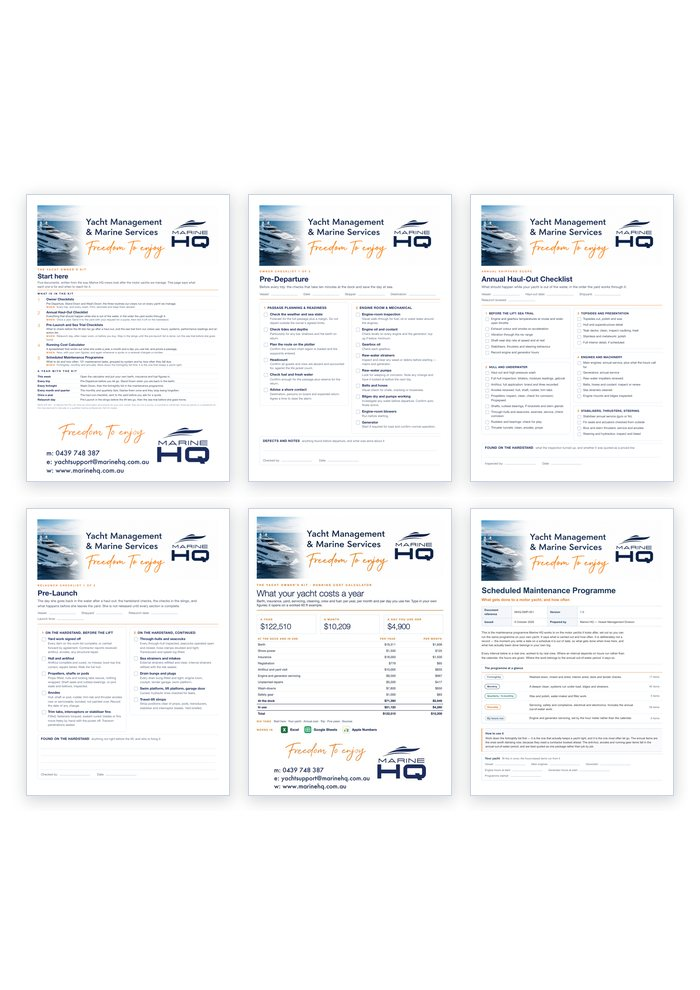
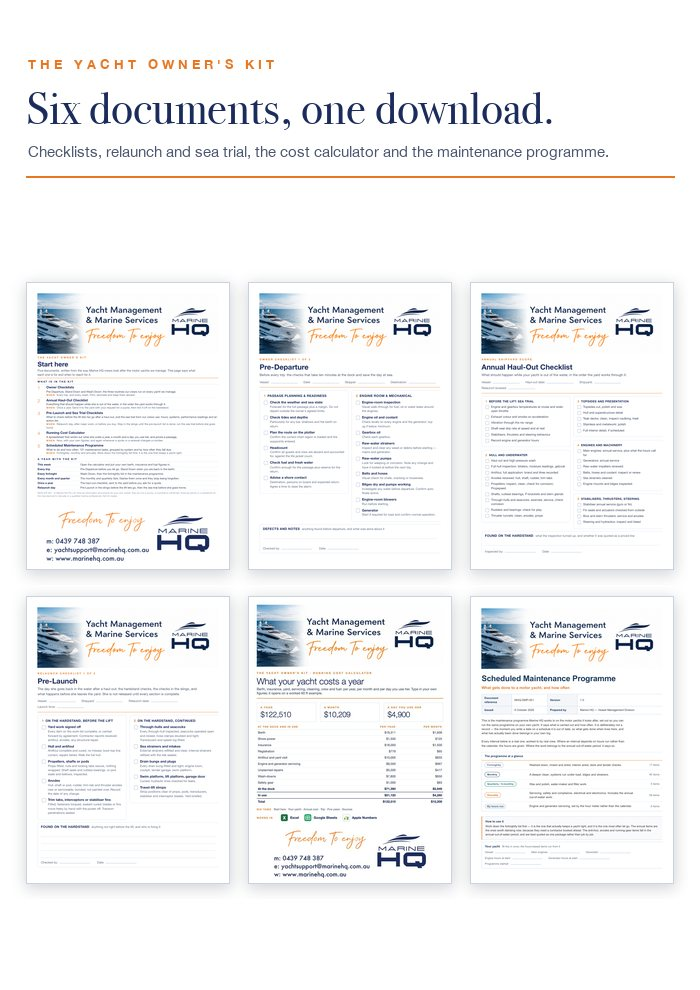
Kit image: title block; calculator listing: badges replace the 'works in' bullet

diff --git a/owners-kit/index.html b/owners-kit/index.html
@@ -26,7 +26,7 @@
   </div>
 </header>
 <nav class="sub" aria-label="Guide sections"><div class="wrap sub-bar"><a class="sub-home" href="/">All guides</a><a href="/costs/">Costs</a><a href="/maintenance/">Maintenance</a><a href="/marinas/">Marinas</a><a href="/buying/">Buying & selling</a><a href="/cruising/">Cruising & passages</a><a href="/ownership/">Ownership</a><a class="sub-kit" href="/owners-kit/">Owner&rsquo;s Kit</a></div></nav>
-<section class="hero small"><div class="wrap"><div class="crumbs"><a href="/">Guides</a> <span>&rsaquo;</span> Owner&rsquo;s Kit</div><h1>The Yacht Owner&#x27;s Kit</h1><p class="stand">The checklists and schedules our crews work to, written for owners who run their own yacht. Download, print, keep aboard.</p></div></section><main class="wrap shop"><p class="shop-note">Pay by card and your files download straight away, with a copy of the links emailed to you. Prices in Australian dollars, GST included. Questions: <a href="tel:+61439748387">0439 748 387</a>.</p><p class="launch-note">Launch prices until 31 December 2026</p><article class="shopcard" id="checklists"><div class="shop-img"><img src="/assets/products/checklists.jpg" alt="Owner Checklists: Pre-Departure, Stand Down, Wash-Down, first page" loading="lazy"></div><div class="shop-txt"><h2>Owner Checklists: Pre-Departure, Stand Down, Wash-Down </h2><p class="blurb">The three routines our crews run on every yacht we manage, written for an owner to use.</p><ul><li>Pre-Departure: 43 checks in six groups, from passage planning to letting go</li><li>Stand Down: 30 checks to leave her secure and ready</li><li>Wash-Down: the 12-step professional wash routine</li><li>How to use them: print, laminate, keep aboard</li></ul><p class="fmt">PDF, 5 pages, A4, print-ready</p><div class="prod-act"><span class="price"><s>$9</s> $7</span><a class="btn" href="https://yachtsupport.systeme.io/owner-checklists">Get yours now &middot; $7</a></div></div></article><article class="shopcard" id="haul-out"><div class="shop-img"><img src="/assets/products/haul-out.jpg" alt="Annual Haul-Out Checklist, first page" loading="lazy"></div><div class="shop-txt"><h2>Annual Haul-Out Checklist </h2><p class="blurb">Everything that should happen while she is out of the water, in the order the yard works through it.</p><ul><li>Pre-lift sea trial: what to measure before she comes out</li><li>Hull, running gear, engines, stabilisers, safety, electrical, systems, tender</li><li>Ten sections, 55 checks</li><li>What to get in writing before you sign the yard quote</li></ul><p class="fmt">PDF, 2 pages, A4, print-ready</p><div class="prod-act"><span class="price"><s>$15</s> $12</span><a class="btn" href="https://yachtsupport.systeme.io/annual-haul-out">Get the checklist &middot; $12</a></div></div></article><article class="shopcard" id="launch-sea-trial"><div class="shop-img"><img src="/assets/products/launch-sea-trial.jpg" alt="Pre-Launch and Sea Trial Checklists, first page" loading="lazy"></div><div class="shop-txt"><h2>Pre-Launch and Sea Trial Checklists </h2><p class="blurb">The two lists that follow a haul-out: what to check before the lift lets her go, and the sea trial that proves she is right.</p><ul><li>Pre-Launch: the three-stage relaunch procedure our crews follow, on the hardstand, in the slings and after release</li><li>Sea Trial: the form our crews use, written for an owner</li><li>Machinery hours and fuel, 14 pre-departure and 7 start-up checks, 25 systems</li><li>Performance table: speed, fuel burn, load, RPM and temperature at nine targets</li><li>The run procedure, what the numbers mean, and an outcome and action list</li></ul><p class="fmt">PDF, 5 pages, A4, print-ready</p><div class="prod-act"><span class="price"><s>$15</s> $12</span><a class="btn" href="https://yachtsupport.systeme.io/pre-launch-sea-trial">Get the checklists &middot; $12</a></div></div></article><article class="shopcard" id="calculator"><div class="shop-img"><img src="/assets/products/calculator.jpg" alt="Running Cost Calculator, first page" loading="lazy"></div><div class="shop-txt"><h2>Running Cost Calculator </h2><p class="blurb">A spreadsheet that works out what your yacht costs a year, a month and a day you use her, and prices a passage before you go.</p><ul><li>Type in her length, insured value, berth rate and hours</li><li>At the dock, in use, per month, per day of use and as a share of her value</li><li>Trip tab: fuel, berths, crew and provisions for a passage</li><li>Five-year outlook, with a major engine service in the year it lands</li><li>Opens on a worked 60 ft example, every starting figure sourced and dated</li><li>Works in Excel, Apple Numbers and Google Sheets</li></ul><p class="fmt">Spreadsheet (.xlsx), 6 tabs</p><p class="works"><span class="eyebrow">Works in</span><span><svg viewBox="0 0 22 22" aria-hidden="true"><rect x="1" y="1" width="20" height="20" rx="4" fill="#1D6F42"/><text x="11" y="16" text-anchor="middle" font-family="Arial" font-weight="800" font-size="13" fill="#fff">X</text></svg>Excel</span><span><svg viewBox="0 0 22 22" aria-hidden="true"><rect x="1" y="1" width="20" height="20" rx="4" fill="#21A464"/><rect x="5" y="6" width="12" height="10" rx="1" fill="none" stroke="#fff" stroke-width="1.4"/><line x1="5" y1="11" x2="17" y2="11" stroke="#fff" stroke-width="1.4"/><line x1="11" y1="6" x2="11" y2="16" stroke="#fff" stroke-width="1.4"/></svg>Google Sheets</span><span><svg viewBox="0 0 22 22" aria-hidden="true"><rect x="1" y="1" width="20" height="20" rx="4" fill="#fff" stroke="#CBD3E0"/><rect x="5" y="11" width="3" height="6" fill="#34C759"/><rect x="9.5" y="6" width="3" height="11" fill="#FFCC00"/><rect x="14" y="8.5" width="3" height="8.5" fill="#007AFF"/></svg>Apple Numbers</span></p><div class="prod-act"><span class="price"><s>$22</s> $17</span><a class="btn" href="https://yachtsupport.systeme.io/running-cost-calculator">Get the calculator &middot; $17</a></div></div></article><article class="shopcard" id="programme"><div class="shop-img"><img src="/assets/products/programme.jpg" alt="Scheduled Maintenance Programme, first page" loading="lazy"></div><div class="shop-txt"><h2>Scheduled Maintenance Programme </h2><p class="blurb">What to do and how often: 121 maintenance tasks for a motor yacht, grouped by system and by how often they fall due.</p><ul><li>121 tasks: fortnightly, monthly, quarterly, annual and by engine hours</li><li>Engines, gensets, stabilisers, hull, safety, electrical, systems, tender</li><li>Notes column for your own yacht</li><li>The schedule our managed fleet runs on</li></ul><p class="fmt">PDF, 7 pages, A4, print-ready</p><div class="prod-act"><span class="price"><s>$39</s> $29</span><a class="btn" href="https://yachtsupport.systeme.io/maintenance-programme">Get the programme &middot; $29</a></div></div></article><article class="shopcard" id="dashboards"><div class="shop-img"><img src="/assets/products/dashboards.jpg" alt="Checklist Dashboards: the four owner checklists on your phone, first page" loading="lazy"></div><div class="shop-txt"><h2>Checklist Dashboards: the four owner checklists on your phone <span class="soon">Coming soon</span></h2><p class="blurb">The same four checklists, working: tick them off on your phone, flag what needs fixing, add photos, and turn it into a one-page report.</p><ul><li>Pre-Departure (43 checks), Stand Down (30), Wash-Down (43 tasks) and Annual Haul-Out (55)</li><li>Pass / fail / not applicable on every line, with notes and a photo from your phone camera</li><li>A live dashboard: percent checked, what needs action, ready to go or not</li><li>A one-page branded report to save as a PDF or send to your surveyor, insurer or yard</li><li>Opens on any phone or tablet, no app and no login. Your records stay on your device</li></ul><p class="fmt">Private web link. Works offline once opened. Add to your home screen</p><div class="prod-act"><span class="price">$19</span><a class="btn" href="mailto:yachtsupport@marinehq.com.au?subject=Tell%20me%20when%20it%20is%20ready%3A%20Checklist%20Dashboards%3A%20the%20four%20owner%20checklists%20on%20your%20phone%20%28%2419%29&amp;body=Hi%20Marine%20HQ%2C%20please%20let%20me%20know%20when%20the%20Checklist%20Dashboards%3A%20the%20four%20owner%20checklists%20on%20your%20phone%20%28%2419%29%20is%20available.">Tell me when it is ready</a></div></div></article><article class="shopcard is-kit" id="kit"><div class="shop-img"><img src="/assets/products/kit.jpg" alt="The Yacht Owner&#x27;s Kit, first page" loading="lazy"></div><div class="shop-txt"><h2>The Yacht Owner&#x27;s Kit </h2><p class="blurb">All five: the checklists, the haul-out checklist, the pre-launch and sea trial checklists, the running cost calculator and the maintenance programme.</p><ul><li>Owner Checklists ($7)</li><li>Annual Haul-Out Checklist ($12)</li><li>Pre-Launch and Sea Trial Checklists ($12)</li><li>Running Cost Calculator ($17)</li><li>Scheduled Maintenance Programme ($29)</li><li>A Start Here page: what each is for and when to use it</li><li>$77 bought separately: save $28</li></ul><p class="fmt">One download: 5 PDFs and a spreadsheet</p><div class="prod-act"><span class="price"><s>$77</s> $49</span><a class="btn" href="https://yachtsupport.systeme.io/owners-kit">Bundle and save now &middot; $49</a></div></div></article><section class="shop-done"><div class="eyebrow">Rather have it written for your yacht?</div><h2>SOPs and the Vessel Dossier</h2><p>These are general documents for any motor yacht. Marine HQ also writes vessel-specific Standard Operating Procedures and a bound Vessel Dossier for individual yachts: her particulars, emergency response card, safety checklist, maintenance schedule and the procedures her crew work to.</p><div class="foot-actions"><a class="btn" href="/guides/yacht-sops-standard-operating-procedures/">Read the SOP guide</a><a class="btn ghost" href="mailto:yachtsupport@marinehq.com.au?subject=SOPs%20and%20Vessel%20Dossier%20enquiry">Ask about SOPs for your yacht</a></div></section></main>
+<section class="hero small"><div class="wrap"><div class="crumbs"><a href="/">Guides</a> <span>&rsaquo;</span> Owner&rsquo;s Kit</div><h1>The Yacht Owner&#x27;s Kit</h1><p class="stand">The checklists and schedules our crews work to, written for owners who run their own yacht. Download, print, keep aboard.</p></div></section><main class="wrap shop"><p class="shop-note">Pay by card and your files download straight away, with a copy of the links emailed to you. Prices in Australian dollars, GST included. Questions: <a href="tel:+61439748387">0439 748 387</a>.</p><p class="launch-note">Launch prices until 31 December 2026</p><article class="shopcard" id="checklists"><div class="shop-img"><img src="/assets/products/checklists.jpg" alt="Owner Checklists: Pre-Departure, Stand Down, Wash-Down, first page" loading="lazy"></div><div class="shop-txt"><h2>Owner Checklists: Pre-Departure, Stand Down, Wash-Down </h2><p class="blurb">The three routines our crews run on every yacht we manage, written for an owner to use.</p><ul><li>Pre-Departure: 43 checks in six groups, from passage planning to letting go</li><li>Stand Down: 30 checks to leave her secure and ready</li><li>Wash-Down: the 12-step professional wash routine</li><li>How to use them: print, laminate, keep aboard</li></ul><p class="fmt">PDF, 5 pages, A4, print-ready</p><div class="prod-act"><span class="price"><s>$9</s> $7</span><a class="btn" href="https://yachtsupport.systeme.io/owner-checklists">Get yours now &middot; $7</a></div></div></article><article class="shopcard" id="haul-out"><div class="shop-img"><img src="/assets/products/haul-out.jpg" alt="Annual Haul-Out Checklist, first page" loading="lazy"></div><div class="shop-txt"><h2>Annual Haul-Out Checklist </h2><p class="blurb">Everything that should happen while she is out of the water, in the order the yard works through it.</p><ul><li>Pre-lift sea trial: what to measure before she comes out</li><li>Hull, running gear, engines, stabilisers, safety, electrical, systems, tender</li><li>Ten sections, 55 checks</li><li>What to get in writing before you sign the yard quote</li></ul><p class="fmt">PDF, 2 pages, A4, print-ready</p><div class="prod-act"><span class="price"><s>$15</s> $12</span><a class="btn" href="https://yachtsupport.systeme.io/annual-haul-out">Get the checklist &middot; $12</a></div></div></article><article class="shopcard" id="launch-sea-trial"><div class="shop-img"><img src="/assets/products/launch-sea-trial.jpg" alt="Pre-Launch and Sea Trial Checklists, first page" loading="lazy"></div><div class="shop-txt"><h2>Pre-Launch and Sea Trial Checklists </h2><p class="blurb">The two lists that follow a haul-out: what to check before the lift lets her go, and the sea trial that proves she is right.</p><ul><li>Pre-Launch: the three-stage relaunch procedure our crews follow, on the hardstand, in the slings and after release</li><li>Sea Trial: the form our crews use, written for an owner</li><li>Machinery hours and fuel, 14 pre-departure and 7 start-up checks, 25 systems</li><li>Performance table: speed, fuel burn, load, RPM and temperature at nine targets</li><li>The run procedure, what the numbers mean, and an outcome and action list</li></ul><p class="fmt">PDF, 5 pages, A4, print-ready</p><div class="prod-act"><span class="price"><s>$15</s> $12</span><a class="btn" href="https://yachtsupport.systeme.io/pre-launch-sea-trial">Get the checklists &middot; $12</a></div></div></article><article class="shopcard" id="calculator"><div class="shop-img"><img src="/assets/products/calculator.jpg" alt="Running Cost Calculator, first page" loading="lazy"></div><div class="shop-txt"><h2>Running Cost Calculator </h2><p class="blurb">A spreadsheet that works out what your yacht costs a year, a month and a day you use her, and prices a passage before you go.</p><ul><li>Type in her length, insured value, berth rate and hours</li><li>At the dock, in use, per month, per day of use and as a share of her value</li><li>Trip tab: fuel, berths, crew and provisions for a passage</li><li>Five-year outlook, with a major engine service in the year it lands</li><li>Opens on a worked 60 ft example, every starting figure sourced and dated</li></ul><p class="fmt">Spreadsheet (.xlsx), 6 tabs</p><p class="works"><span class="eyebrow">Works in</span><span><svg viewBox="0 0 22 22" aria-hidden="true"><rect x="1" y="1" width="20" height="20" rx="4" fill="#1D6F42"/><text x="11" y="16" text-anchor="middle" font-family="Arial" font-weight="800" font-size="13" fill="#fff">X</text></svg>Excel</span><span><svg viewBox="0 0 22 22" aria-hidden="true"><rect x="1" y="1" width="20" height="20" rx="4" fill="#21A464"/><rect x="5" y="6" width="12" height="10" rx="1" fill="none" stroke="#fff" stroke-width="1.4"/><line x1="5" y1="11" x2="17" y2="11" stroke="#fff" stroke-width="1.4"/><line x1="11" y1="6" x2="11" y2="16" stroke="#fff" stroke-width="1.4"/></svg>Google Sheets</span><span><svg viewBox="0 0 22 22" aria-hidden="true"><rect x="1" y="1" width="20" height="20" rx="4" fill="#fff" stroke="#CBD3E0"/><rect x="5" y="11" width="3" height="6" fill="#34C759"/><rect x="9.5" y="6" width="3" height="11" fill="#FFCC00"/><rect x="14" y="8.5" width="3" height="8.5" fill="#007AFF"/></svg>Apple Numbers</span></p><div class="prod-act"><span class="price"><s>$22</s> $17</span><a class="btn" href="https://yachtsupport.systeme.io/running-cost-calculator">Get the calculator &middot; $17</a></div></div></article><article class="shopcard" id="programme"><div class="shop-img"><img src="/assets/products/programme.jpg" alt="Scheduled Maintenance Programme, first page" loading="lazy"></div><div class="shop-txt"><h2>Scheduled Maintenance Programme </h2><p class="blurb">What to do and how often: 121 maintenance tasks for a motor yacht, grouped by system and by how often they fall due.</p><ul><li>121 tasks: fortnightly, monthly, quarterly, annual and by engine hours</li><li>Engines, gensets, stabilisers, hull, safety, electrical, systems, tender</li><li>Notes column for your own yacht</li><li>The schedule our managed fleet runs on</li></ul><p class="fmt">PDF, 7 pages, A4, print-ready</p><div class="prod-act"><span class="price"><s>$39</s> $29</span><a class="btn" href="https://yachtsupport.systeme.io/maintenance-programme">Get the programme &middot; $29</a></div></div></article><article class="shopcard" id="dashboards"><div class="shop-img"><img src="/assets/products/dashboards.jpg" alt="Checklist Dashboards: the four owner checklists on your phone, first page" loading="lazy"></div><div class="shop-txt"><h2>Checklist Dashboards: the four owner checklists on your phone <span class="soon">Coming soon</span></h2><p class="blurb">The same four checklists, working: tick them off on your phone, flag what needs fixing, add photos, and turn it into a one-page report.</p><ul><li>Pre-Departure (43 checks), Stand Down (30), Wash-Down (43 tasks) and Annual Haul-Out (55)</li><li>Pass / fail / not applicable on every line, with notes and a photo from your phone camera</li><li>A live dashboard: percent checked, what needs action, ready to go or not</li><li>A one-page branded report to save as a PDF or send to your surveyor, insurer or yard</li><li>Opens on any phone or tablet, no app and no login. Your records stay on your device</li></ul><p class="fmt">Private web link. Works offline once opened. Add to your home screen</p><div class="prod-act"><span class="price">$19</span><a class="btn" href="mailto:yachtsupport@marinehq.com.au?subject=Tell%20me%20when%20it%20is%20ready%3A%20Checklist%20Dashboards%3A%20the%20four%20owner%20checklists%20on%20your%20phone%20%28%2419%29&amp;body=Hi%20Marine%20HQ%2C%20please%20let%20me%20know%20when%20the%20Checklist%20Dashboards%3A%20the%20four%20owner%20checklists%20on%20your%20phone%20%28%2419%29%20is%20available.">Tell me when it is ready</a></div></div></article><article class="shopcard is-kit" id="kit"><div class="shop-img"><img src="/assets/products/kit.jpg" alt="The Yacht Owner&#x27;s Kit, first page" loading="lazy"></div><div class="shop-txt"><h2>The Yacht Owner&#x27;s Kit </h2><p class="blurb">All five: the checklists, the haul-out checklist, the pre-launch and sea trial checklists, the running cost calculator and the maintenance programme.</p><ul><li>Owner Checklists ($7)</li><li>Annual Haul-Out Checklist ($12)</li><li>Pre-Launch and Sea Trial Checklists ($12)</li><li>Running Cost Calculator ($17)</li><li>Scheduled Maintenance Programme ($29)</li><li>A Start Here page: what each is for and when to use it</li><li>$77 bought separately: save $28</li></ul><p class="fmt">One download: 5 PDFs and a spreadsheet</p><div class="prod-act"><span class="price"><s>$77</s> $49</span><a class="btn" href="https://yachtsupport.systeme.io/owners-kit">Bundle and save now &middot; $49</a></div></div></article><section class="shop-done"><div class="eyebrow">Rather have it written for your yacht?</div><h2>SOPs and the Vessel Dossier</h2><p>These are general documents for any motor yacht. Marine HQ also writes vessel-specific Standard Operating Procedures and a bound Vessel Dossier for individual yachts: her particulars, emergency response card, safety checklist, maintenance schedule and the procedures her crew work to.</p><div class="foot-actions"><a class="btn" href="/guides/yacht-sops-standard-operating-procedures/">Read the SOP guide</a><a class="btn ghost" href="mailto:yachtsupport@marinehq.com.au?subject=SOPs%20and%20Vessel%20Dossier%20enquiry">Ask about SOPs for your yacht</a></div></section></main>
 <footer class="foot">
   <div class="wrap">
     <div class="foot-cta">
